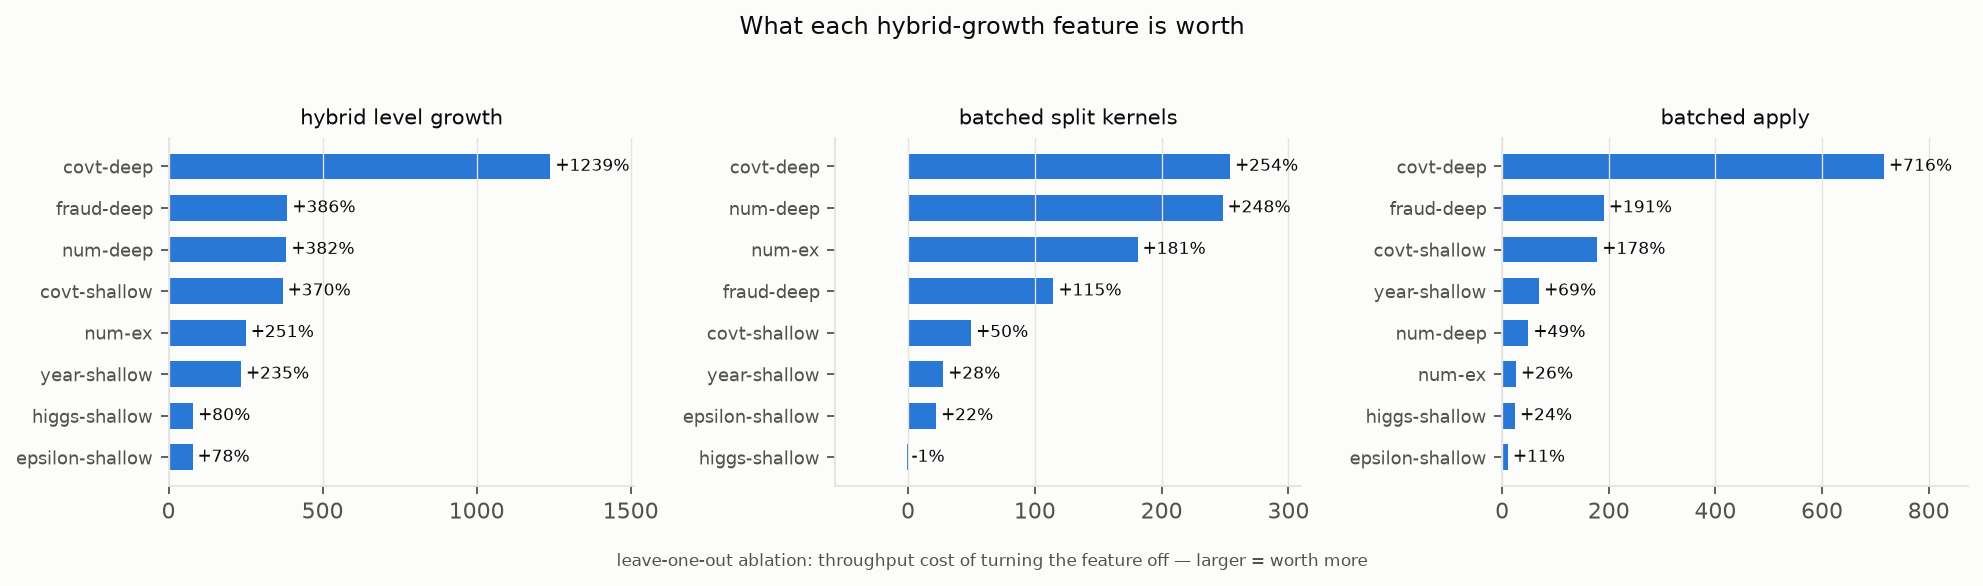
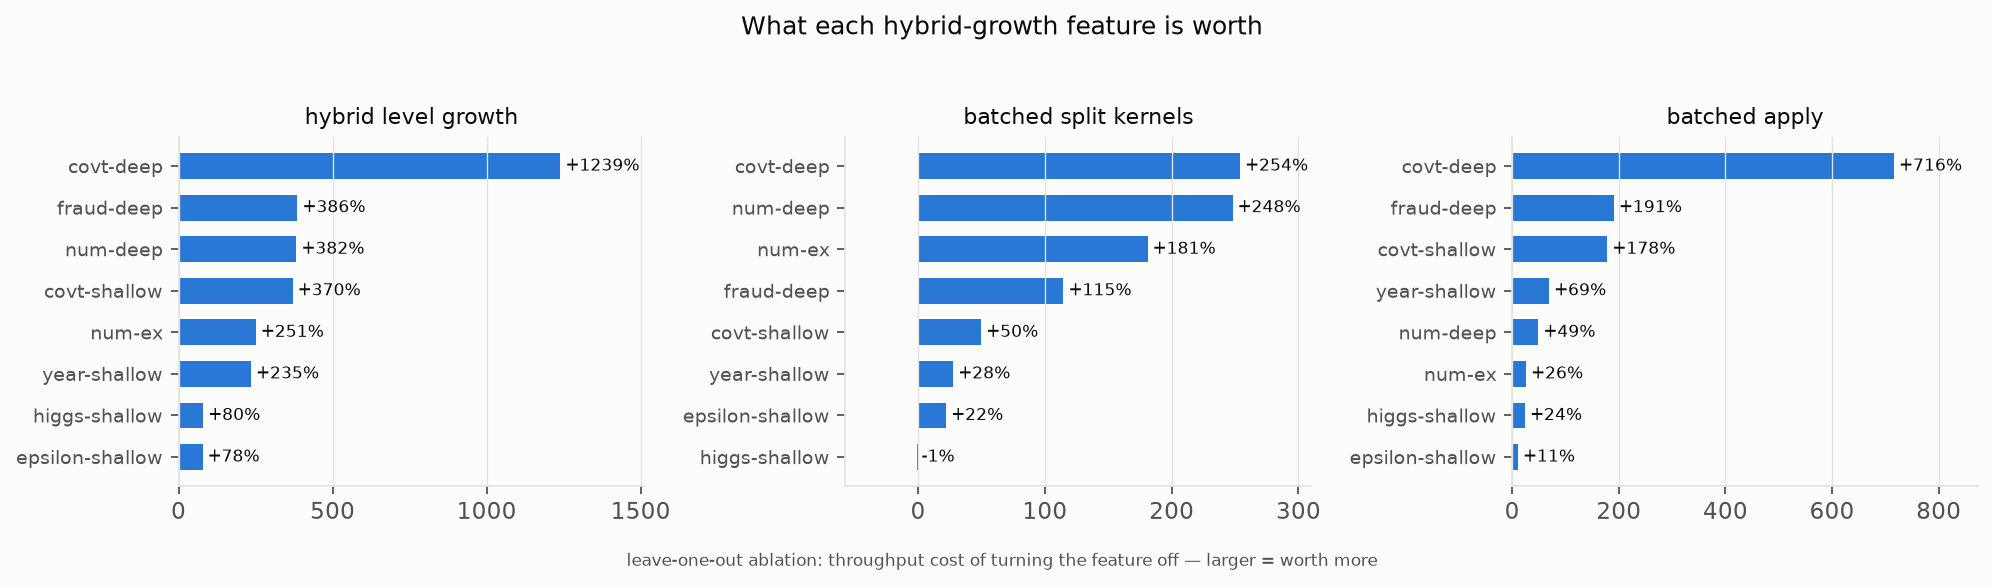
docs: one type scale across the plots, normalized for figure width
Titles were set at four different sizes (9.5/10/10.5/11), but the bigger
problem was invisible in the source: figures range from 7in to 13in wide, and
performance.md displays them all at one column width. A 10pt title on a 13in
figure therefore reached the reader at nearly half the size of the same 10pt
title on a 7in one.

Titles now come from three named constants (TITLE_PT / SUB_PT / CAP_PT) quoted
at a 12in reference width, and normalize_text() rescales every text element by
the figure's own width before saving. Apparent size is fontsize / figure width,
so making the size proportional to width holds it constant while each figure
keeps its internal hierarchy. Tick labels are set through set_tick_params as
well, since they are recreated on draw and would not keep a size set on the
existing Text objects.

Measured on the rendered PNGs (title band height per 1000px of image width):
spread across the eleven plots falls 1.87x -> 1.41x, and the remainder is
glyph composition, not size -- "FALB binary model format..." carries capitals
and a descender, "fast rowdata build" has neither.

diff --git a/docs/perf-plots/generate.py b/docs/perf-plots/generate.py
@@ -68,6 +68,39 @@ LIB_LABEL = {
     "lightgbm-ocl": "lightgbm OpenCL",
 }
 
+# One type scale for every figure. Sizes are quoted at the reference width
+# below and rescaled per figure by normalize_text(), because these PNGs are all
+# displayed at the same column width in performance.md: a 10pt title on a 13in
+# figure and a 10pt title on a 7in figure arrive at the reader nearly 2x apart.
+REF_WIDTH_IN = 12.0
+TITLE_PT = 11.0  # figure title (suptitle, or the title of a single-axes plot)
+SUB_PT = 9.5  # subplot title beneath a suptitle
+CAP_PT = 7.5  # caption line under the axes
+
+
+def normalize_text(fig):
+    """Scale every text element by this figure's width vs the reference.
+
+    Apparent size after uniform display scaling is fontsize / figure width, so
+    making the size proportional to the width holds it constant across plots
+    while preserving each figure's internal hierarchy.
+    """
+    import matplotlib.text
+
+    scale = fig.get_figwidth() / REF_WIDTH_IN
+    if abs(scale - 1.0) < 1e-9:
+        return
+    for txt in fig.findobj(matplotlib.text.Text):
+        txt.set_fontsize(txt.get_fontsize() * scale)
+    for ax in fig.axes:
+        # tick labels are re-created on draw, so the Text pass above does not
+        # stick to them -- set the tick size itself
+        for axis in (ax.xaxis, ax.yaxis):
+            lbls = axis.get_ticklabels()
+            if len(lbls):
+                axis.set_tick_params(labelsize=lbls[0].get_fontsize())
+
+
 plt.rcParams.update(
     {
         "figure.facecolor": SURFACE,
@@ -255,7 +288,7 @@ def plot_cross_library():
     ax.minorticks_off()
     ax.set_xticks(list(x), [DS_LABEL.get(dr, dr[0]) for dr in DS_REGS], fontsize=9)
     ax.set_ylabel("training time vs falcata (×, log)")
-    ax.set_title("GPU training time relative to falcata", fontsize=10.5, pad=26)
+    ax.set_title("GPU training time relative to falcata", fontsize=TITLE_PT, pad=26)
     fig.text(
         0.5,
         -0.04,
@@ -265,7 +298,7 @@ def plot_cross_library():
         "regression)",
         ha="center",
         va="top",
-        fontsize=7.5,
+        fontsize=CAP_PT,
         color=TEXT2,
     )
     ax.legend(
@@ -277,6 +310,7 @@ def plot_cross_library():
     )
     bar_ends(ax)
     fig.tight_layout()
+    normalize_text(fig)
     fig.savefig(os.path.join(HERE, "cross_library_deep.png"), bbox_inches="tight")
     plt.close(fig)
 
@@ -332,7 +366,7 @@ def plot_quant_modes():
                 )
     ax1.set_xticks(list(x), labels, fontsize=8, rotation=20)
     ax1.set_ylabel("speedup vs no-quant (×)")
-    ax1.set_title("Speed", fontsize=10)
+    ax1.set_title("Speed", fontsize=SUB_PT)
     ax1.legend(fontsize=8, frameon=False)
     bar_ends(ax1)
     # quality: relative metric delta vs noquant, in % (sign = better/worse)
@@ -365,19 +399,20 @@ def plot_quant_modes():
     ax2.axhline(0, color=TEXT2, linewidth=0.8)
     ax2.set_xticks(list(x), labels, fontsize=8, rotation=20)
     ax2.set_ylabel("quality vs no-quant (%)")
-    ax2.set_title("Quality (+ is better)", fontsize=10)
+    ax2.set_title("Quality (+ is better)", fontsize=SUB_PT)
     bar_ends(ax2)
-    fig.suptitle("Quantization modes", fontsize=11, y=1.03)
+    fig.suptitle("Quantization modes", fontsize=TITLE_PT, y=1.03)
     fig.text(
         0.5,
         -0.02,
         "quant_mode effect, measured on the cross-library sweep (deep regimes)",
         ha="center",
         va="top",
-        fontsize=7.5,
+        fontsize=CAP_PT,
         color=TEXT2,
     )
     fig.tight_layout()
+    normalize_text(fig)
     fig.savefig(os.path.join(HERE, "quant_modes.png"), bbox_inches="tight")
     plt.close(fig)
 
@@ -414,18 +449,19 @@ def plot_construct():
     ax.invert_yaxis()
     ax.set_xlim(0, 64)
     ax.set_xlabel("time until training can start (s)")
-    ax.set_title("Ingestion of the numerai matrix", fontsize=10)
+    ax.set_title("Ingestion of the numerai matrix", fontsize=TITLE_PT)
     fig.text(
         0.5,
         -0.06,
         "6.8M rows × 3555 features, ~96 GB as float32",
         ha="center",
         va="top",
-        fontsize=7.5,
+        fontsize=CAP_PT,
         color=TEXT2,
     )
     ax.grid(axis="y", visible=False)
     fig.tight_layout()
+    normalize_text(fig)
     fig.savefig(os.path.join(HERE, "construct_time.png"), bbox_inches="tight")
     plt.close(fig)
 
@@ -460,20 +496,21 @@ def plot_hybrid_ablation():
             )
         ax.set_yticks(list(ys), [c for c, _ in vals], fontsize=8)
         ax.invert_yaxis()
-        ax.set_title(title, fontsize=9.5)
+        ax.set_title(title, fontsize=SUB_PT)
         ax.margins(x=0.22)
         ax.grid(axis="y", visible=False)
-    fig.suptitle("What each hybrid-growth feature is worth", fontsize=11, y=1.04)
+    fig.suptitle("What each hybrid-growth feature is worth", fontsize=TITLE_PT, y=1.04)
     fig.text(
         0.5,
         -0.01,
         "leave-one-out ablation: throughput cost of turning the feature off — larger = worth more",
         ha="center",
         va="top",
-        fontsize=7.5,
+        fontsize=CAP_PT,
         color=TEXT2,
     )
     fig.tight_layout()
+    normalize_text(fig)
     fig.savefig(os.path.join(HERE, "hybrid_ablation.png"), bbox_inches="tight")
     plt.close(fig)
 
@@ -501,7 +538,7 @@ def plot_single_feature(key, title, fname):
     ax.axvline(0, color=TEXT2, linewidth=0.8)
     ax.set_yticks(list(ys), [c for c, _ in vals], fontsize=9)
     ax.invert_yaxis()
-    ax.set_title(title, fontsize=10)
+    ax.set_title(title, fontsize=TITLE_PT)
     xlbl = "Δ throughput when disabled (%)"
     if n_neutral:
         xlbl += (
@@ -511,6 +548,7 @@ def plot_single_feature(key, title, fname):
     ax.margins(x=0.18)
     ax.grid(axis="y", visible=False)
     fig.tight_layout()
+    normalize_text(fig)
     fig.savefig(os.path.join(HERE, fname), bbox_inches="tight")
     plt.close(fig)
 
@@ -573,7 +611,7 @@ def plot_selective_prune():
             ax.text(x, 1.35, glabel, ha="center", fontsize=8, color=TEXT2)
 
     frontier(axes[0], drawn=True)
-    axes[0].set_title("1. grow the whole level speculatively", fontsize=10)
+    axes[0].set_title("1. grow the whole level speculatively", fontsize=SUB_PT)
     axes[0].text(
         5,
         -1.1,
@@ -608,7 +646,7 @@ def plot_selective_prune():
             color=TEXT if inside else TEXT2,
             weight="bold" if inside else "normal",
         )
-    axes[1].set_title("2. rank by gain, take what the budget allows", fontsize=10)
+    axes[1].set_title("2. rank by gain, take what the budget allows", fontsize=SUB_PT)
     axes[1].text(
         5,
         -1.1,
@@ -619,7 +657,7 @@ def plot_selective_prune():
     )
 
     frontier(axes[2], drawn=True, kept_only=True)
-    axes[2].set_title("3. collapse the rest, recycle their leaf ids", fontsize=10)
+    axes[2].set_title("3. collapse the rest, recycle their leaf ids", fontsize=SUB_PT)
     axes[2].text(
         5,
         -1.1,
@@ -630,17 +668,18 @@ def plot_selective_prune():
         color=TEXT2,
     )
 
-    fig.suptitle("Selective grow-then-prune", fontsize=11, y=1.03)
+    fig.suptitle("Selective grow-then-prune", fontsize=TITLE_PT, y=1.03)
     fig.text(
         0.5,
         0.0,
         "how level batching works when the leaf budget binds",
         ha="center",
         va="top",
-        fontsize=7.5,
+        fontsize=CAP_PT,
         color=TEXT2,
     )
     fig.tight_layout()
+    normalize_text(fig)
     fig.savefig(os.path.join(HERE, "hybrid_selective_prune.png"), bbox_inches="tight")
     plt.close(fig)
 
@@ -697,7 +736,7 @@ def plot_hybrid_diagram():
     # LEFT: classic leaf-wise -- one split at a time, order follows gain and
     # ping-pongs across the tree; every number is a full GPU<->CPU round trip
     draw_tree(axt_l, {0: "1", 1: "2", 2: "3", 3: "5", 4: "4", 5: "7", 6: "6"})
-    axt_l.set_title("classic leaf-wise: one split at a time", fontsize=11)
+    axt_l.set_title("classic leaf-wise: one split at a time", fontsize=TITLE_PT)
     axt_l.text(
         5,
         -1.0,
@@ -729,7 +768,7 @@ def plot_hybrid_diagram():
             va="center",
         )
     draw_tree(axt_r, {0: "1", 1: "2", 2: "2", 3: "3", 4: "3", 5: "3", 6: "3"})
-    axt_r.set_title("hybrid level-batched: whole levels at once", fontsize=11)
+    axt_r.set_title("hybrid level-batched: whole levels at once", fontsize=TITLE_PT)
     axt_r.text(
         5,
         -1.0,
@@ -764,6 +803,7 @@ def plot_hybrid_diagram():
         "GPU timeline: batched kernels back-to-back (the graph loop, §3, then removes the last gaps)",
     )
     fig.tight_layout()
+    normalize_text(fig)
     fig.savefig(os.path.join(HERE, "hybrid_growth_diagram.png"), bbox_inches="tight")
     plt.close(fig)
 
@@ -828,7 +868,7 @@ def plot_curves():
         ax.set_ylim(bottom=ymin)
         ax.set_xlabel("wall time (s, log)")
         ax.set_ylabel("test AUC")
-        ax.set_title(ds, fontsize=10)
+        ax.set_title(ds, fontsize=SUB_PT)
         handles, labels = ax.get_legend_handles_labels()
         order = sorted(range(len(labels)), key=lambda i: labels[i])
         ax.legend(
@@ -838,14 +878,14 @@ def plot_curves():
             frameon=False,
             loc="upper left",
         )
-    fig.suptitle("Time-to-quality", fontsize=11, y=1.04)
+    fig.suptitle("Time-to-quality", fontsize=TITLE_PT, y=1.04)
     fig.text(
         0.5,
         0.995,
         "deep regime, 500 trees, evaluated every 25 iterations",
         ha="center",
         va="top",
-        fontsize=7.5,
+        fontsize=CAP_PT,
         color=TEXT2,
     )
     fig.text(
@@ -856,7 +896,7 @@ def plot_curves():
         "5th decimal)",
         ha="center",
         va="top",
-        fontsize=7.5,
+        fontsize=CAP_PT,
         color=TEXT2,
     )
     if missing:
@@ -872,6 +912,7 @@ def plot_curves():
             color=TEXT2,
         )
     fig.tight_layout()
+    normalize_text(fig)
     fig.savefig(os.path.join(HERE, "time_to_quality.png"), bbox_inches="tight")
     plt.close(fig)
 
@@ -903,9 +944,10 @@ def plot_model_size():
         "model file size (MB)\n45k-tree / 3555-feature numerai production "
         "model, predictions bit-identical unless noted"
     )
-    ax.set_title("FALB binary model format vs the text format", fontsize=10)
+    ax.set_title("FALB binary model format vs the text format", fontsize=TITLE_PT)
     ax.grid(axis="y", visible=False)
     fig.tight_layout()
+    normalize_text(fig)
     fig.savefig(os.path.join(HERE, "model_size.png"), bbox_inches="tight")
     plt.close(fig)
 
@@ -955,7 +997,7 @@ def plot_memory():
                 ax.text(xx, v, note, ha="center", va="bottom", fontsize=9, color=TEXT)
     ax.set_xticks(list(x), [DS_LABEL.get(dr, dr[0]) for dr in drs], fontsize=9)
     ax.set_ylabel("GPU peak (GB)")
-    ax.set_title("Peak GPU memory", fontsize=10)
+    ax.set_title("Peak GPU memory", fontsize=TITLE_PT)
     # Below the axes, not floating inside them: the tallest bars (catboost on
     # airline/numerai) ran straight through a legend placed automatically.
     ax.legend(
@@ -972,11 +1014,12 @@ def plot_memory():
         "keeps the training data host-side",
         ha="center",
         va="top",
-        fontsize=7.5,
+        fontsize=CAP_PT,
         color=TEXT2,
     )
     bar_ends(ax)
     fig.tight_layout()
+    normalize_text(fig)
     fig.savefig(os.path.join(HERE, "gpu_memory.png"), bbox_inches="tight")
     plt.close(fig)
 
